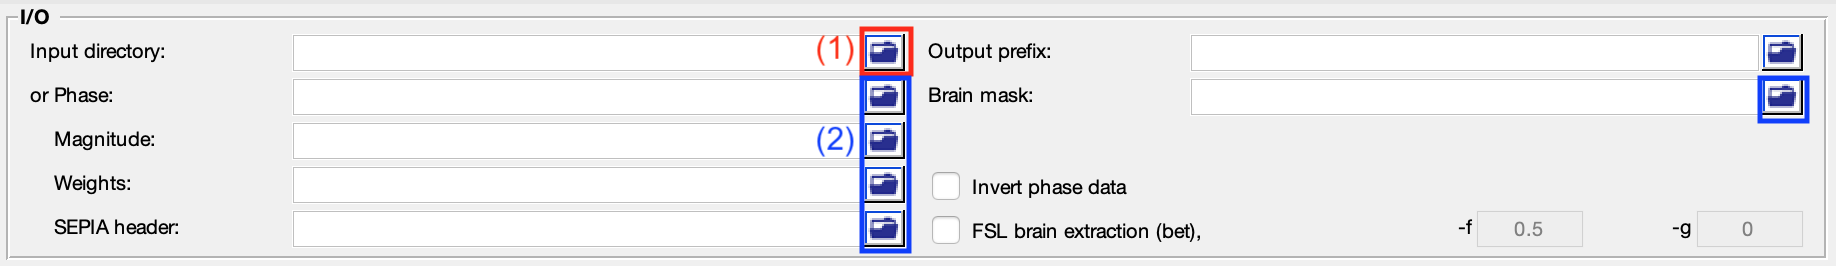
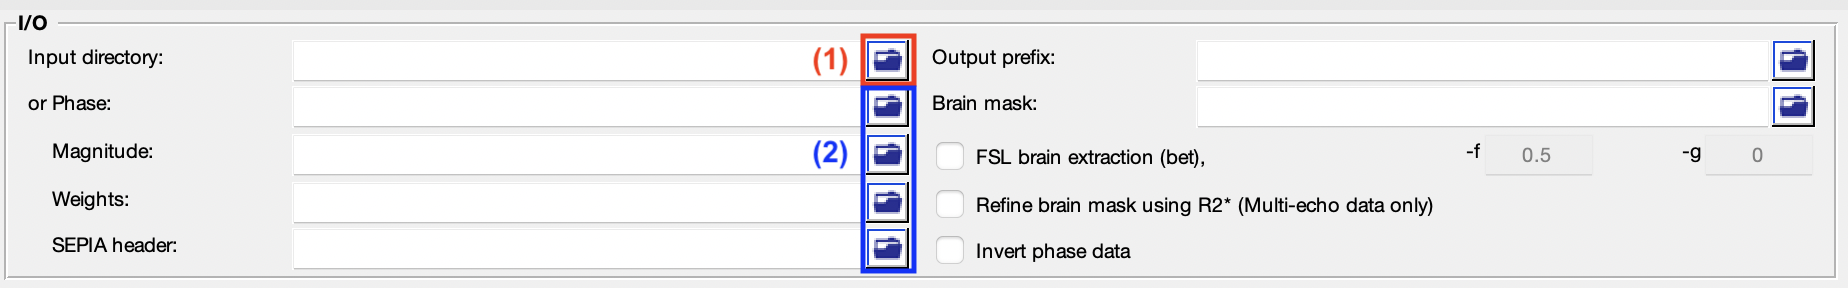
v1.1.2

diff --git a/docs/gui/Sepia-One-stop-QSM-processing.rst b/docs/gui/Sepia-One-stop-QSM-processing.rst
@@ -69,16 +69,19 @@ The I/O panel is responsible for data input/output and data processing that is n
   
 - Brain mask  
 
-  You can optionally specify a signal (brain) mask NIfTI file. If this input is empty and no mask is found in the input directory, SEPIA will automatically run the FSL's brain extraction tool (bet) provided with MEDI toolbox to compute the brain mask.
-
-- Invert phase data   
-
-  Checking this option will invert the contrast of the SEPIA output frequency and QSM maps. Mathematically it inverse the signal phase by computing the signal conjugate. It is useful if you want to have specific colour scheme for QSM (e.g. dark colour for paramagnetic susceptibility).
+  You can optionally specify a signal (brain) mask NIfTI file. If this input is empty and no mask is found in the input directory, SEPIA will automatically run the FSL's brain extraction tool (bet) provided with the MEDI toolbox to compute the brain mask.
 
 - FSL brain extraction (bet)
 
   Brain mask can be computed using the Matlab implementation of FSL's BET provided with MEDI toolbox, with options including fractional intensity threshold (-f) and vertical in fractional intensity threshold (-g). More information regarding the options can be found in `BET/UserGuide <https://fsl.fmrib.ox.ac.uk/fsl/fslwiki/BET/UserGuide>`_.
 
+- Refine brain mask using R2* (Multi-echo data only)
+  
+  If enable, a R2* map will be computed and used to threshold out high R2* voxels on the edges of the brain mask.
+
+- Invert phase data   
+
+  Checking this option will invert the contrast of the SEPIA output frequency and QSM maps. Mathematically it inverse the signal phase by computing the signal conjugate. It is useful if you want to have specific colour scheme for QSM (e.g. dark colour for paramagnetic susceptibility).
 
 Total field recovery and phase unwrapping panel
 ^^^^^^^^^^^^^^^^^^^^^^^^^^^^^^^^^^^^^^^^^^^^^^^
@@ -90,7 +93,7 @@ Total field recovery and phase unwrapping panel
   Select a method for temporal phase unwrapping with multi-echo data.
 
   .. note::
-    If the number of echoes is less than 3. 'Optimum weights' method will be automatically used.
+    If the number of echoes is less than 3 and 'MEDI nonlinear fit' is chosen, 'Optimum weights' method will be automatically used.
 
   .. warning::
     The 'MEDI nonlinear fit (Bipolar, testing)' method is not fully supported yet.
@@ -104,19 +107,20 @@ Total field recovery and phase unwrapping panel
 		
 - Bipolar readout correction
 
-  Correct the phase inconsistency between odd and even echoes, and a gradient-like magnetic field contributed from eddy current due to bipolar readout.
-  If this option is enabled, the bipolar readout corrected data will be saved in the output directory with the following suffix:
+  Correct the phase inconsistency between odd and even echoes, and a gradient-like (should be only in the readout direction) magnetic field contributed from eddy current due to bipolar readout.
 
-  - *phase_eddy-correct.nii.gz*
+- Save unwrapped echo phase
+  
+  Export all unwrapped echo phase images as NIfTI.
   
 - Exclude voxels using residual, threshold:  
 
   Exclude voxels that have high relative residual based on a single compartment model fitting. The output data with suffix '*relative-residual.nii.gz* will be used for thresholding. For voxels that have intensity **higher** than the threshold will be **excluded** from subsequent processing. Two methods are supported to exclude those voxels: 
 
-  1. 'Weighting map': the excluded voxels will weight as 0 in the weighting map, which will only affect QSM dipole inversion algorithms that accept a weighting map as part of the regularisation.
+  1. 'Weighting map': Please see :ref: `weightings-in-sepia`` Section **Further modulation on the weighting maps**
   2. 'Brain mask': the excluded voxels will be excluded in the signal mask in the subsequent processing. This will affect both background field removal and QSM dipole inversion results.
 
-  Only available for region growing based methods (i.e. '3D best path', 'Region growing (MEDI)' and 'SEGUE') and 'Graphcut' method. 
+  Only available for quantitative methods (i.e. '3D best path', 'Region growing (MEDI)', 'SEGUE' and 'ROMEO') and 'Graphcut' method. 
 
 Background field removal panel
 ^^^^^^^^^^^^^^^^^^^^^^^^^^^^^^
@@ -131,9 +135,13 @@ Background field removal panel
 
   Option to remove potential field contributions originated from B1 by polynomial fitting or spherical harmonic fit.
 
-- Erode edge voxel(s)  
+- Erode edge voxel(s) before BFR 
 
-  Further remove the edge voxels from the brain mask. Useful when the local field is not reliably estimated on the brain edges. This operation is performed **prior** the 'Remove potenital B1 residual phase' operation (if selected).
+  Remove n voxel(s) away from the edge of the brain mask **BEFORE** the background field removal step.
+
+- Erode edge voxel(s) after BFR 
+
+  Remove n voxel(s) away from the edge of the brain mask **AFTER** the background field removal step. This operation is performed **prior** the 'Remove potenital B1 residual phase' operation (if selected).
 
 QSM panel
 ^^^^^^^^^

diff --git a/docs/gui/Phase-unwrapping-standalone.rst b/docs/gui/Phase-unwrapping-standalone.rst
@@ -64,16 +64,19 @@ The I/O panel is responsible for data input/output and data processing that is n
   
 - Brain mask  
 
-  You can optionally specify a signal (brain) mask NIfTI file. If this input is empty and no mask is found in the input directory, SEPIA will automatically run the FSL's brain extraction tool (bet) provided with MEDI toolbox to compute the brain mask.
-
-- Invert phase data   
-
-  Checking this option will invert the contrast of the SEPIA output frequency and QSM maps. Mathematically it inverse the signal phase by computing the signal conjugate. It is useful if you want to have specific colour scheme for QSM (e.g. dark colour for paramagnetic susceptibility).
+  You can optionally specify a signal (brain) mask NIfTI file. If this input is empty and no mask is found in the input directory, SEPIA will automatically run the FSL's brain extraction tool (bet) provided with the MEDI toolbox to compute the brain mask.
 
 - FSL brain extraction (bet)
 
   Brain mask can be computed using the Matlab implementation of FSL's BET provided with MEDI toolbox, with options including fractional intensity threshold (-f) and vertical in fractional intensity threshold (-g). More information regarding the options can be found in `BET/UserGuide <https://fsl.fmrib.ox.ac.uk/fsl/fslwiki/BET/UserGuide>`_.
 
+- Refine brain mask using R2* (Multi-echo data only)
+  
+  If enable, a R2* map will be computed and used to threshold out high R2* voxels on the edges of the brain mask.
+
+- Invert phase data   
+
+  Checking this option will invert the contrast of the SEPIA output frequency and QSM maps. Mathematically it inverse the signal phase by computing the signal conjugate. It is useful if you want to have specific colour scheme for QSM (e.g. dark colour for paramagnetic susceptibility).
 
 Total field recovery and phase unwrapping panel
 ^^^^^^^^^^^^^^^^^^^^^^^^^^^^^^^^^^^^^^^^^^^^^^^
@@ -99,19 +102,20 @@ Total field recovery and phase unwrapping panel
 		
 - Bipolar readout correction
 
-  Correct the phase inconsistency between odd and even echoes, and a gradient-like magnetic field contributed from eddy current due to bipolar readout.
-  If this option is enabled, the bipolar readout corrected data will be saved in the output directory with the following suffix:
+  Correct the phase inconsistency between odd and even echoes, and a gradient-like (should be only in the readout direction) magnetic field contributed from eddy current due to bipolar readout.
 
-  - *phase_eddy-correct.nii.gz*
+- Save unwrapped echo phase
+  
+  Export all unwrapped echo phase images as NIfTI.
   
 - Exclude voxels using residual, threshold:  
 
   Exclude voxels that have high relative residual based on a single compartment model fitting. The output data with suffix '*relative-residual.nii.gz* will be used for thresholding. For voxels that have intensity **higher** than the threshold will be **excluded** from subsequent processing. Two methods are supported to exclude those voxels: 
 
-  1. 'Weighting map': the excluded voxels will weight as 0 in the weighting map, which will only affect QSM dipole inversion algorithms that accept a weighting map as part of the regularisation.
+  1. 'Weighting map': Please see :ref: `weightings-in-sepia`` Section **Further modulation on the weighting maps**
   2. 'Brain mask': the excluded voxels will be excluded in the signal mask in the subsequent processing. This will affect both background field removal and QSM dipole inversion results.
 
-  Only available for region growing based methods (i.e. '3D best path', 'Region growing (MEDI)' and 'SEGUE') and 'Graphcut' method. 
+  Only available for quantitative methods (i.e. '3D best path', 'Region growing (MEDI)', 'SEGUE' and 'ROMEO') and 'Graphcut' method. 
 
 Others
 ^^^^^^

diff --git a/docs/method/Lookup-table-algorParam.rst b/docs/method/Lookup-table-algorParam.rst
@@ -15,6 +15,8 @@ General algorithm parameters
 +---------------------------+--------------------------------------------------------------------------------------------------------------+ 
 | isInvert                  | Use conjugate of the complex-valued data for processing                                                      |
 +---------------------------+--------------------------------------------------------------------------------------------------------------+ 
+| isRefineBrainMask         | Exclude high R2* voxels from the edge of the brain mask                                                      |
++---------------------------+--------------------------------------------------------------------------------------------------------------+ 
 
 Total field recovery and phase unwrapping algorithm parameters
 --------------------------------------------------------------
@@ -277,4 +279,12 @@ MRI Suscep. Calc.
 | lambda          | Regularisation parameter for Tikhonov algorithms                           |
 +-----------------+----------------------------------------------------------------------------+
 | toleance        | tiolerance level for CG solver                                             |
++-----------------+----------------------------------------------------------------------------+
+
+xQSM
+^^^^
++-----------------+----------------------------------------------------------------------------+
+| algorParam.qsm. | Description                                                                |
++=================+============================================================================+
+| solver          | Pre-trained networks for dipole field inversion                            |
 +-----------------+----------------------------------------------------------------------------+

diff --git a/docs/method/qsm/QSMnet.rst b/docs/method/qsm/QSMnet.rst
@@ -6,7 +6,6 @@
 QSMnet+
 =======
 
-Reference:
 `J. Yoon, E. Gong, I. Chatnuntawech, B. Bilgic, J. Lee, W. Jung, J. Ko, H. Jung, K. Setsompop, G. Zaharchuk, E.Y. Kim, J. Pauly, J. Lee. Quantitative susceptibility mapping using deep neural network: QSMnet. Neuroimage. 2018 Oct;179:199-206. <https://www.sciencedirect.com/science/article/pii/S1053811918305378>`_ 
 
 `W. Jung, J. Yoon, S. Ji, J. Choi, J. Kim, Y. Nam, E. Kim, J. Lee. Exploring linearity of deep neural network trained QSM: QSMnet+. Neuroimage. 2020 May; 116619. <https://www.sciencedirect.com/science/article/pii/S1053811920301063>`_ 
@@ -25,7 +24,7 @@ Your setup_qsmnet_environment.m should look something like this:
 .. image:: ../images/qsm/QSMnet_setup.png
 
 .. warning::
-The support this method is still in an early stage and only tested on a Linux machine.
+    The support this method is still in an early stage and only tested on a Linux machine.
 
 QSMnet+ panel
 -------------

diff --git a/docs/method/qsm/xQSM.rst b/docs/method/qsm/xQSM.rst
@@ -6,7 +6,6 @@
 xQSM
 ====
 
-Reference:
 `Yang Gao, Xuanyu Zhu, Bradford A. Moffat, Rebecca Glarin, Alan H. Wilman, G. Bruce Pike, Stuart Crozier, Feng Liu, Hongfu Sun, 2020. xQSM: quantitative susceptibility mapping with octave convolutional and noise-regularized neural networks. <https://doi.org/10.1002/nbm.4461>`_ 
 
 Setup xQSM for SEPIA
@@ -21,7 +20,7 @@ Your setup_xQSM_environment.m should look something like this:
 .. image:: ../images/qsm/xQSM_setup.png
 
 .. warning::
-The support this method is still in an early stage and only tested on a Linux machine.
+    The support this method is still in an early stage and only tested on a Linux machine.
 
 xQSM panel
 ----------

diff --git a/docs/method/bfr/BFRnet.rst b/docs/method/bfr/BFRnet.rst
@@ -6,7 +6,6 @@
 BFRnet
 ======
 
-Reference:
 `Xuanyu Zhu, Yang Gao, Feng Liu, Stuart Crozier, Hongfu Sun, 2022. BFRnet: A deep learning-based MR background field removal method for QSM of the brain containing significant pathological susceptibility sources <https://arxiv.org/abs/2204.02760>`_ 
 
 Setup BFRnet for SEPIA
@@ -21,7 +20,7 @@ Your setup_BFRnet_environment.m should look something like this:
 .. image:: ../images/bfr/BFRnet_setup.png
 
 .. warning::
-The support this method is still in an early stage and only tested on a Linux machine.
+    The support this method is still in an early stage and only tested on a Linux machine.
 
 BFRnet panel
 ------------

diff --git a/docs/method/qsm/LPCNN.rst b/docs/method/qsm/LPCNN.rst
@@ -6,7 +6,6 @@
 LP-CNN
 ======
 
-Reference:
 `Kuo-Wei Lai, Manisha Aggarwal, Peter van Zijl, Xu Li & Jeremias Sulam, 2020. Learned Proximal Networks for Quantitative Susceptibility Mapping <https://link.springer.com/chapter/10.1007/978-3-030-59713-9_13>`_ 
 
 Setup LP-CNN for SEPIA
@@ -21,7 +20,7 @@ Your setup_LPCNN_environment.m should look something like this:
 .. image:: ../images/qsm/LPCNN_setup.png
 
 .. warning::
-The support this method is still in an early stage and only tested on a Linux machine.
+    The support this method is still in an early stage and only tested on a Linux machine.
 
 LP-CNN panel
 ------------

diff --git a/docs/index.rst b/docs/index.rst
@@ -65,6 +65,7 @@ Table of Contents
    method/Phase-unwrapping-algorithms
    method/Background-field-removal-algorithms
    method/QSM-algorithms
+   method/SWISMWI-algorithms.rst
    method/weightings
    method/Lookup-table-algorParam
 
